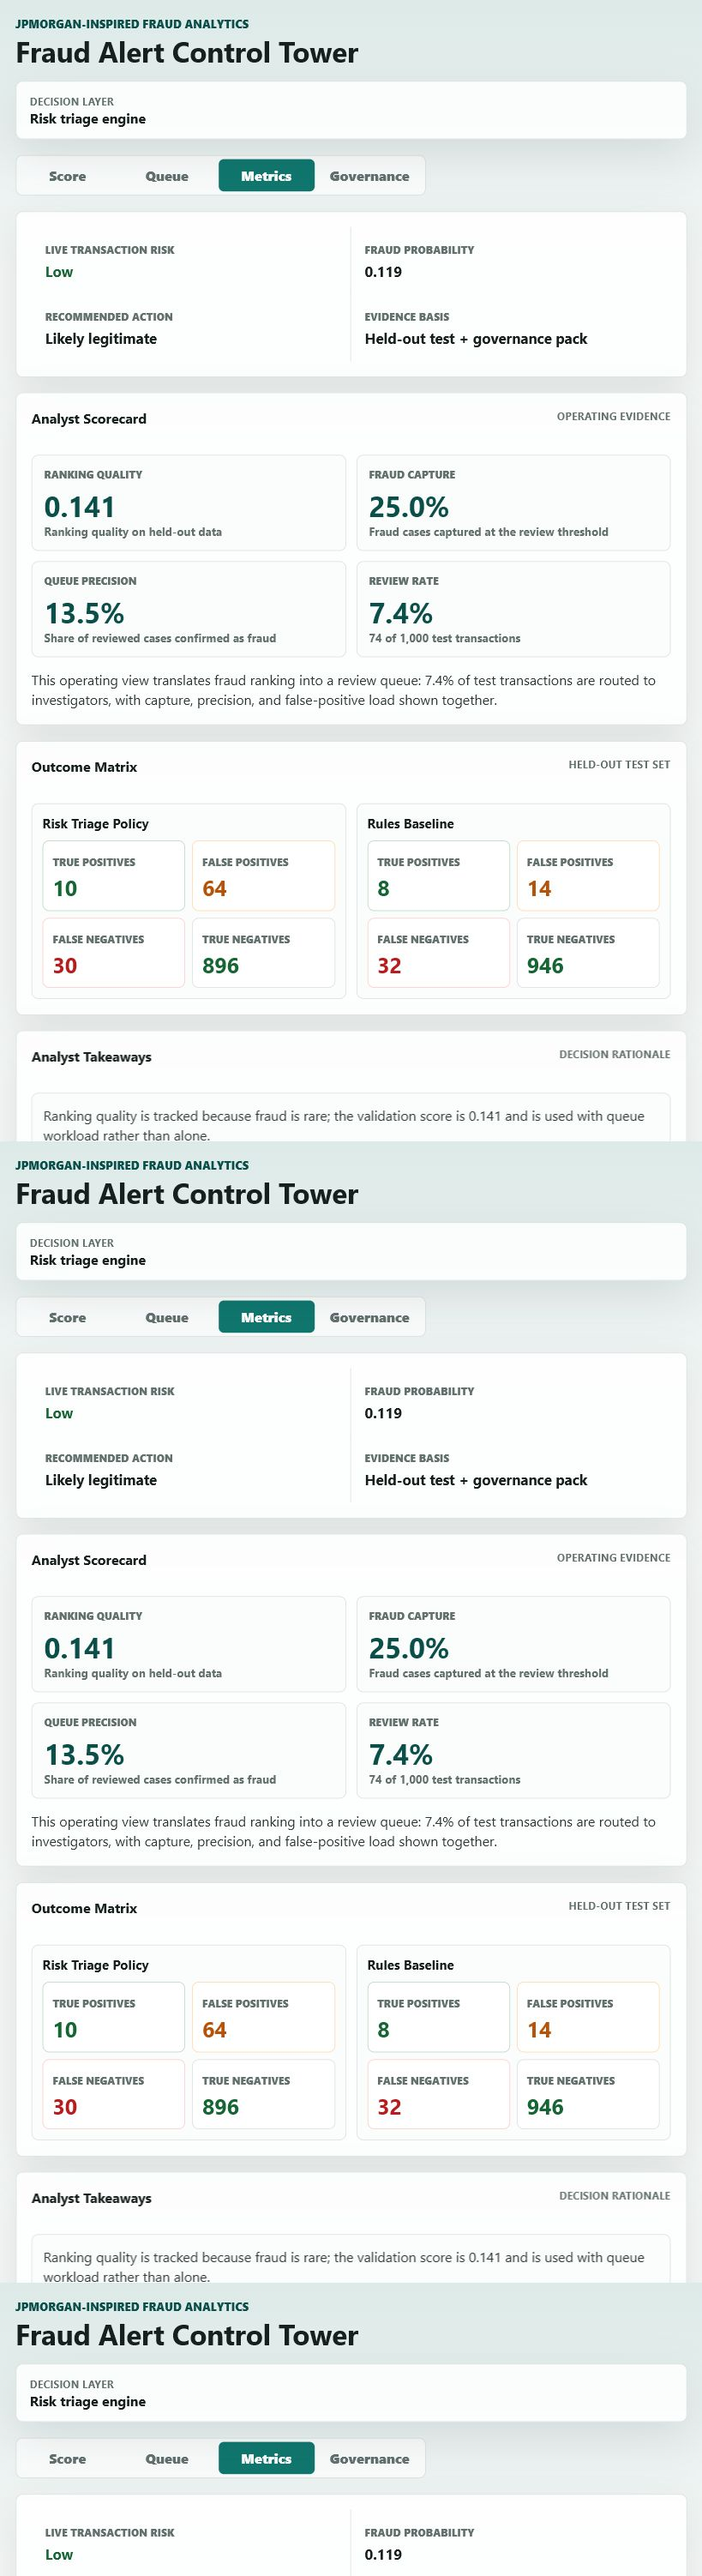
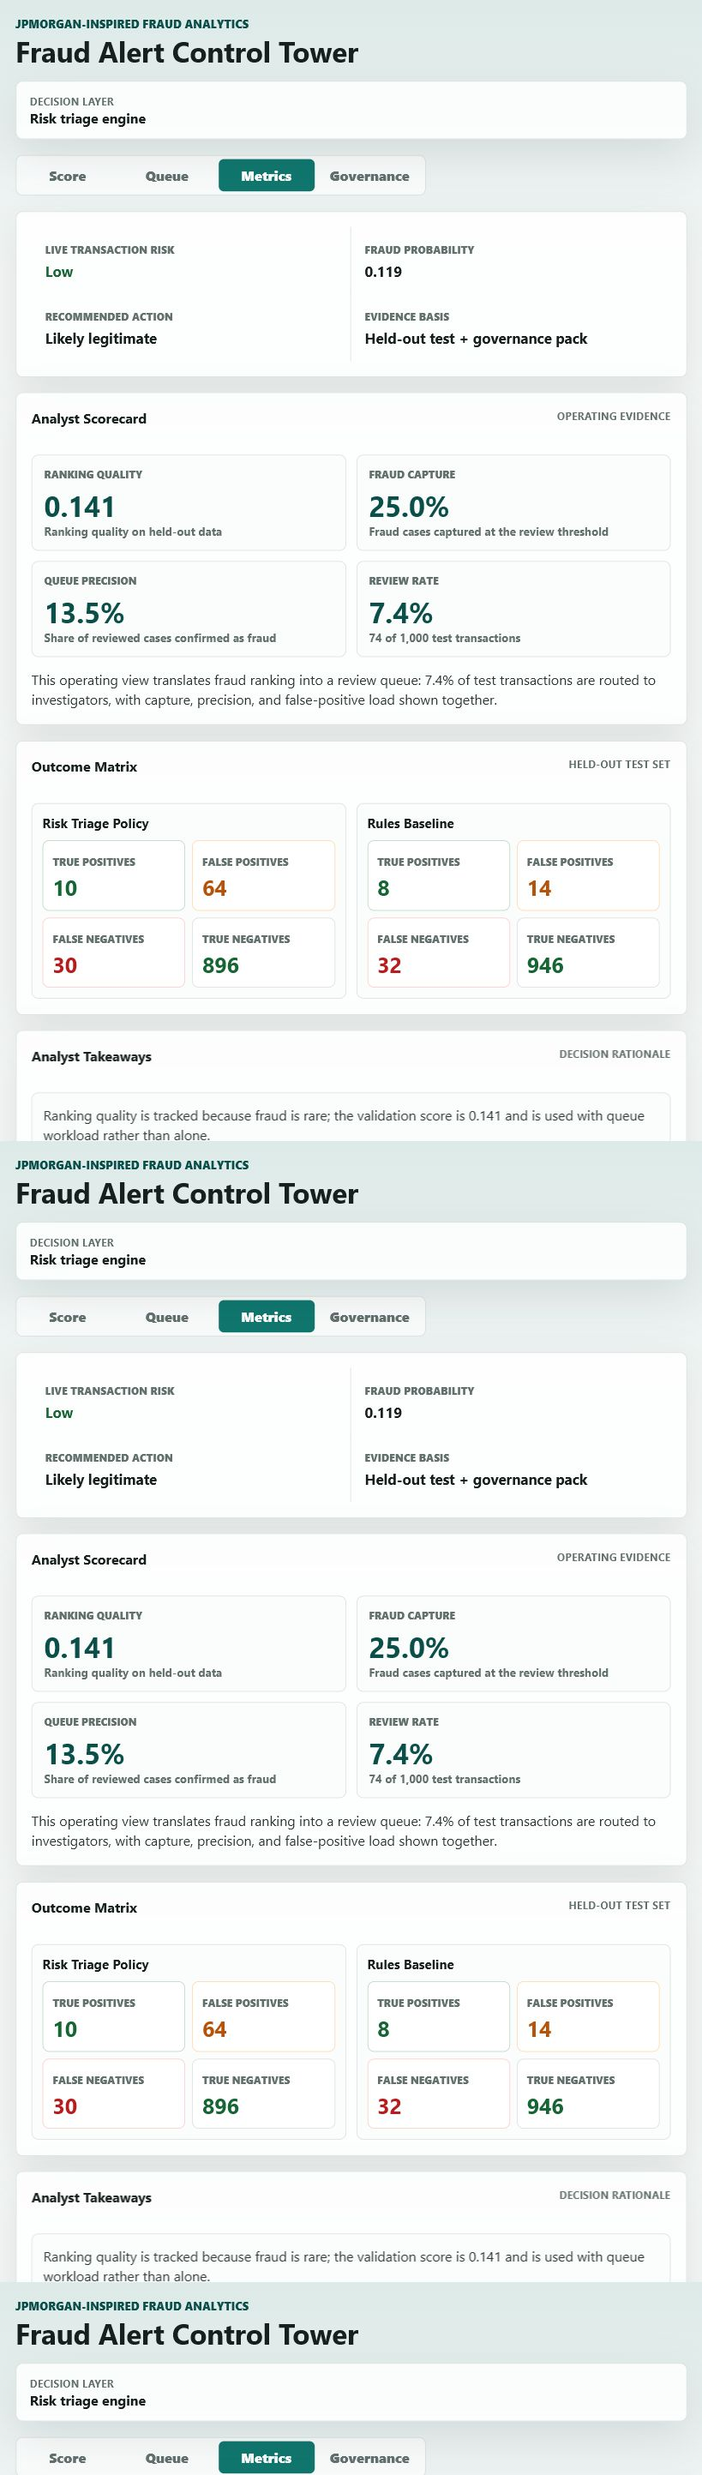
Clean feature importance display

Changed region(s): [[0.0, 0.0, 0.9768, 1.0], [0.4274, 0.0, 0.4884, 0.0312], [0.2747, 0.187, 0.3053, 0.2182]]

diff --git a/app.js b/app.js
@@ -937,7 +937,9 @@ function renderCapacityThresholds() {
 function renderGlobalImportance() {
   const bars = document.getElementById("globalFeatureBars");
   bars.replaceChildren();
-  const visible = state.dashboard.global_feature_importance.slice(0, 8);
+  const visible = state.dashboard.global_feature_importance
+    .filter((row) => Number(row.permutation_importance_mean_pr_auc) >= 0.001)
+    .slice(0, 8);
   const maxValue = Math.max(
     ...visible.map((row) => Math.abs(Number(row.permutation_importance_mean_pr_auc))),
     0.001,

diff --git a/app/app.js b/app/app.js
@@ -937,7 +937,9 @@ function renderCapacityThresholds() {
 function renderGlobalImportance() {
   const bars = document.getElementById("globalFeatureBars");
   bars.replaceChildren();
-  const visible = state.dashboard.global_feature_importance.slice(0, 8);
+  const visible = state.dashboard.global_feature_importance
+    .filter((row) => Number(row.permutation_importance_mean_pr_auc) >= 0.001)
+    .slice(0, 8);
   const maxValue = Math.max(
     ...visible.map((row) => Math.abs(Number(row.permutation_importance_mean_pr_auc))),
     0.001,
